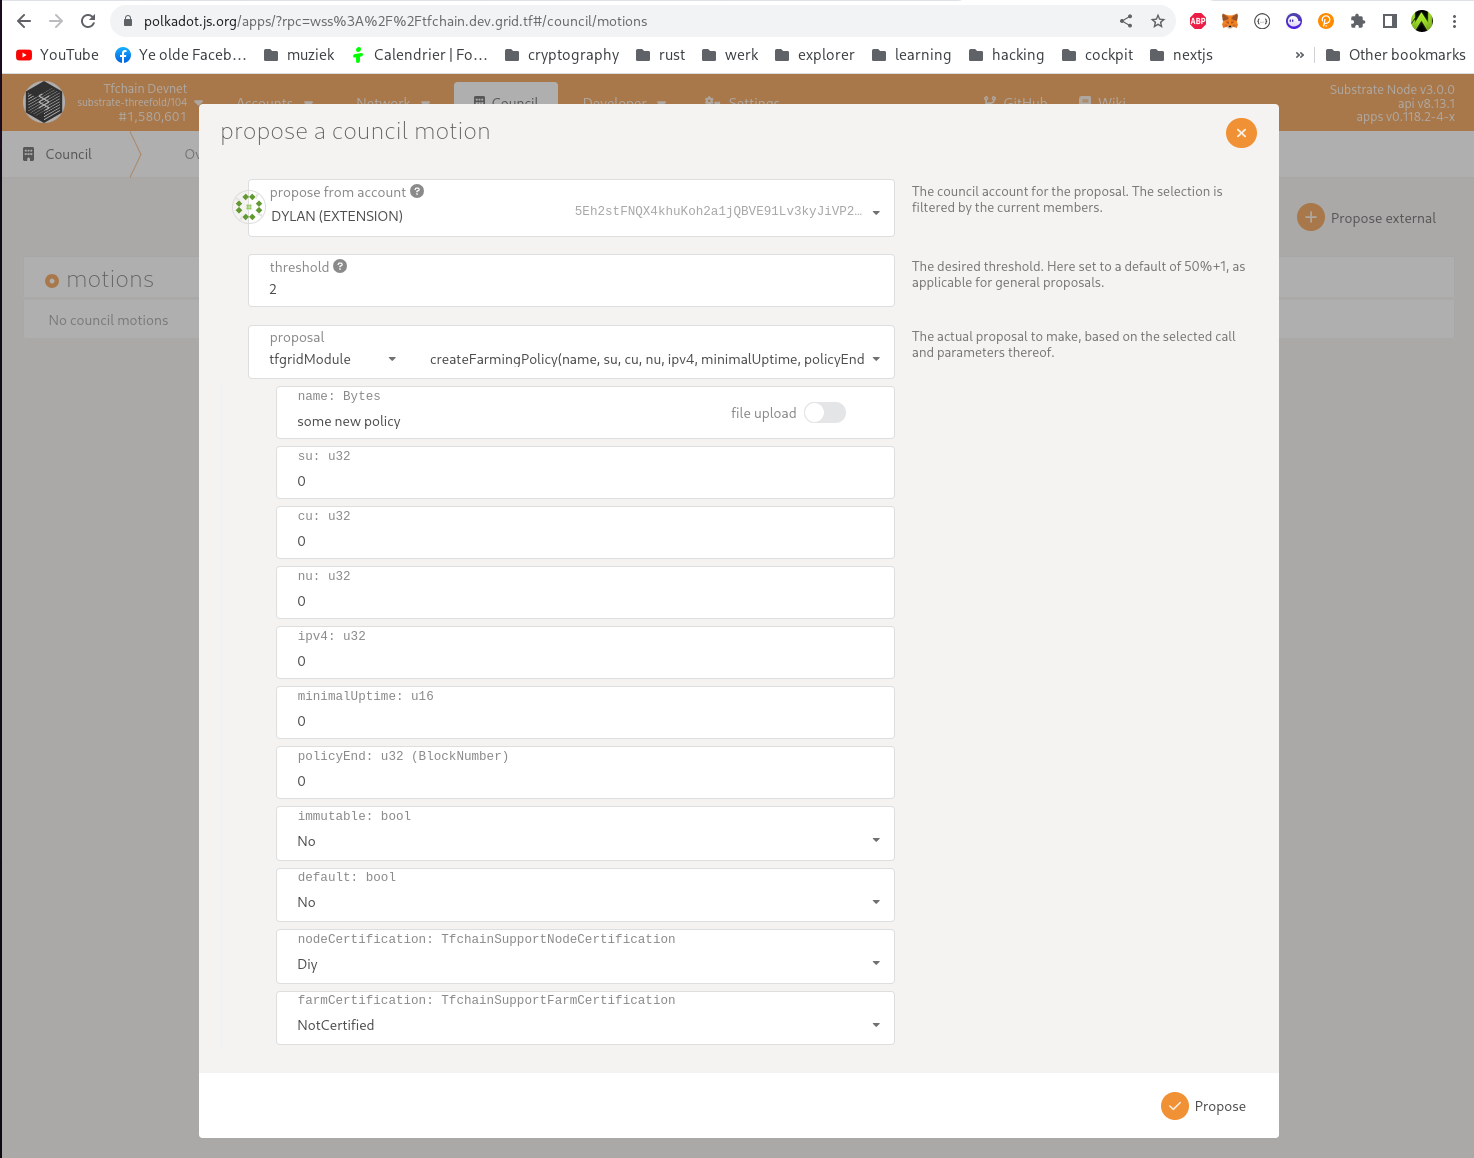
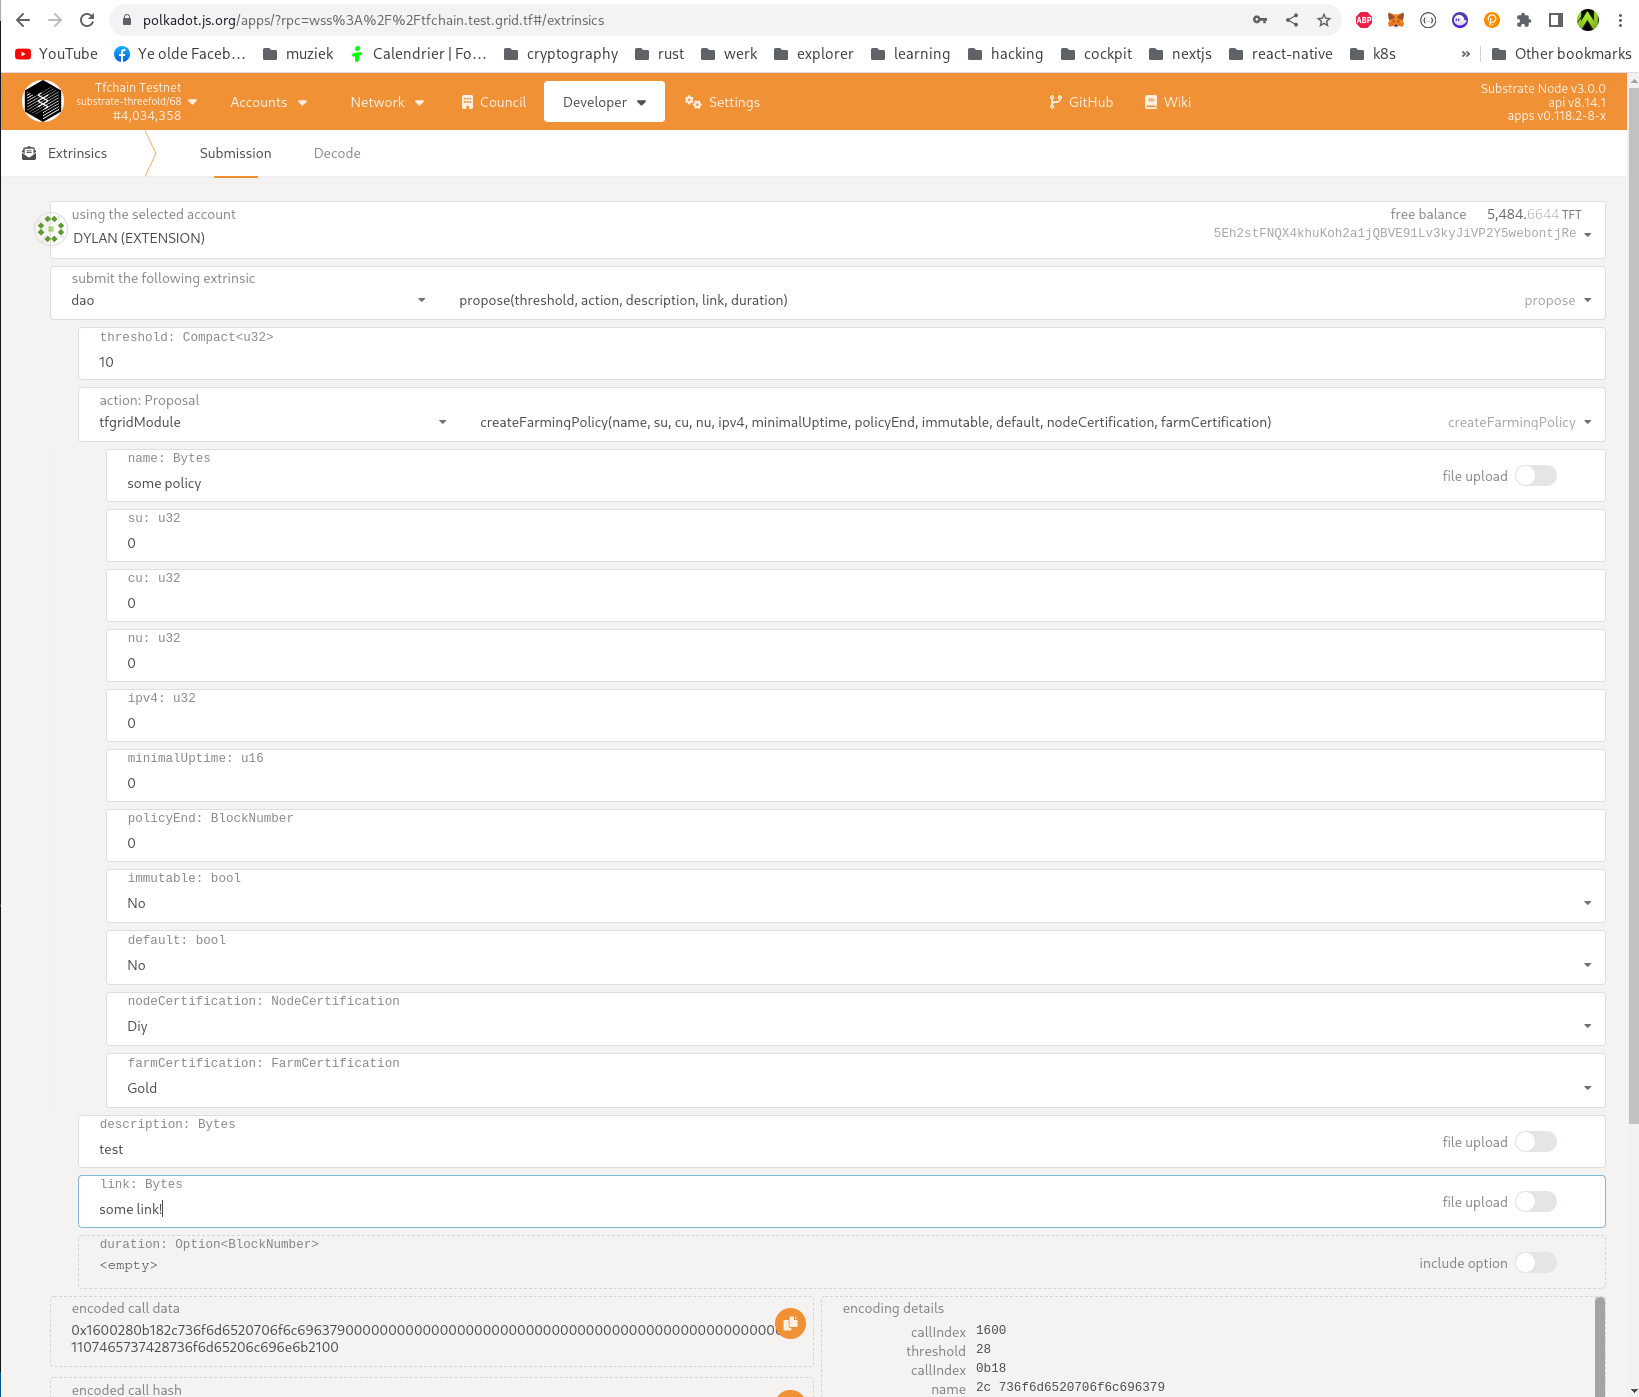
chore: update docs

diff --git a/wiki/tfchain/farming_policies.md b/wiki/tfchain/farming_policies.md
@@ -30,6 +30,7 @@ Important here is that certification of a node only happens after it comes live 
 
 When a council member attaches a policy to a farm, limits can be set. These limits define how much a policy can be used for nodes, before it becomes unusable and gets removed. The limits currently are:
 
+- Farming Policy ID: the ID of the farming policy which we want to limit to a farm.
 - CU. Every time a node is added in the farm, it's CU is calculated and deducted from this amount. If the amount drops below 0, the maximum amount of CU that can be attached to this policy is reached.
 - SU. Every time a node is added in the farm, it's SU is calculated and deducted from this amount. If the amount drops below 0, the maximum amount of SU that can be attached to this policy is reached.
 - End date. After this date the policy is not effective anymore and can't be used. It is removed from the farm and a default policy is used.
@@ -41,16 +42,15 @@ Once a limit is reached, the farming policy is removed from the farm, so new nod
 
 A council member can create a Farming Policy (DAO) in the following way:
 
-1: Open [PolkadotJS](https://polkadot.js.org/apps/?rpc=wss%3A%2F%2Ftfchain.grid.tf#/council/motions) apps on the corresponding network and go to `Council`
-2: Create a council motion (proposal). Click on `Propose motion`
-3: Now select the account to propose from (should be an account that's a council member).
-4: Select as proposal `dao` -> `propose`
-5: Set a threshold (amount of farmers to vote)
+1: Open [PolkadotJS](https://polkadot.js.org/apps/?rpc=wss%3A%2F%2Ftfchain.grid.tf#/extrinsics) apps on the corresponding network and go to `Extrinsics`
+2: Now select the account to propose from (should be an account that's a council member).
+3: Select as action `dao` -> `propose`
+5: Set a `threshold` (amount of farmers to vote)
 6: Select an actions `tfgridModule` -> `createFarmingPolicy` and fill in all the fields.
 7: Create a forum post with the details of the farming policy and fill in the link of that post in the `link` field
-8: Give it some good description.
-9: Duration is optional (by default it's 7 days)
-10: If all the fields are filled in, click `Propose`. Now Farmers can vote, if there are enough votes, the proposal should be closed. This `Close` action will show in the UI once there are enough votes.
+8: Give it some good `description`.
+9: Duration is optional (by default it's 7 days). A proposal cannot be closed before the duration is "expired". If you wish to set a duration, the duration should be expressed in number of blocks from `now`. For example, 2 hours is equal to 1200 blocks (blocktime is 6 seconds) in this case, the duration should be filled in as `1200`.
+10: If all the fields are filled in, click `Propose`, now Farmers can vote. A proposal can be closed manually once there are enough votes AND the proposal is expired. To close go to extrinsics -> `dao` -> `close` -> fill in proposal hash and index (both can be found in chainstate).
 
 All (su, cu, nu, ipv4) values should be expressed in units USD. Minimal uptime should be expressed as integer that represents an percentage (example: `95`).
 
@@ -58,25 +58,23 @@ Policy end is optional (0 or some block number in the future). This is used for 
 
 For reference:
 
-![image](./img/create_policy_dao.png)
+![image](./img/create_policy.png)
 
 ## Linking a policy to a Farm
 
-First identify the policy ID to link to a farm.
+First identify the policy ID to link to a farm. You can check for farming policies in [chainstate](https://polkadot.js.org/apps/?rpc=wss%3A%2F%2Ftfchain.grid.tf#/chainstate) -> `tfgridModule` -> `farmingPolciesMap`, start with ID 1 and increment with 1 until you find the farming policy which was created when the proposal was expired and closed.
 
-1: Open [PolkadotJS](https://polkadot.js.org/apps/?rpc=wss%3A%2F%2Ftfchain.grid.tf#/council/motions) apps on the corresponding network and go to `Council`
-2: Create a council motion (proposal). Click on `Propose motion`
-3: Now select the account to propose from (should be an account that's a council member).
-4: Select as proposal `dao` -> `propose`
-5: Select threshold for this proposal to 1 (this means that it will directly become available to farmers to vote).
-6: Set a threshold (amount of farmers to vote)
-7: Select an actions `tfgridModule` -> `attachPolicyToFarm` and fill in all the fields (FarmID and Limits).
-8: Limits contains a `farming_policy_id` (Required) and cu, su, end, node count (which are all optional). It also contains `node_certification`, if this is set to true only certified nodes can have this policy.
-9: Create a forum post with the details of why we want to link that farm to that policy and fill in the link of that post in the `link` field
-10: Give it some good description.
-11: Duration is optional (by default it's 7 days)
-12: If all the fields are filled in, click `Propose`. Now Farmers can vote, if there are enough votes, the proposal should be closed. This `Close` action will show in the UI once there are enough votes.
+1: Open [PolkadotJS](https://polkadot.js.org/apps/?rpc=wss%3A%2F%2Ftfchain.grid.tf#/extrinsics) apps on the corresponding network and go to `Extrinsics`
+2: Now select the account to propose from (should be an account that's a council member).
+3: Select as proposal `dao` -> `propose`
+4: Set a `threshold` (amount of farmers to vote)
+5: Select an actions `tfgridModule` -> `attachPolicyToFarm` and fill in all the fields (FarmID and Limits).
+6: Limits contains a `farming_policy_id` (Required) and cu, su, end, node count (which are all optional). It also contains `node_certification`, if this is set to true only certified nodes can have this policy.
+7: Create a forum post with the details of why we want to link that farm to that policy and fill in the link of that post in the `link` field
+8: Give it some good `description`.
+9: Duration is optional (by default it's 7 days). A proposal cannot be closed before the duration is "expired". If you wish to set a duration, the duration should be expressed in number of blocks from `now`. For example, 2 hours is equal to 1200 blocks (blocktime is 6 seconds) in this case, the duration should be filled in as `1200`.
+10: If all the fields are filled in, click `Propose`, now Farmers can vote. A proposal can be closed manually once there are enough votes AND the proposal is expired. To close go to extrinsics -> `dao` -> `close` -> fill in proposal hash and index (both can be found in chainstate).
 
 For reference:
 
-![image](./img/attach_policy.png)
+![image](./img/attach.png)
